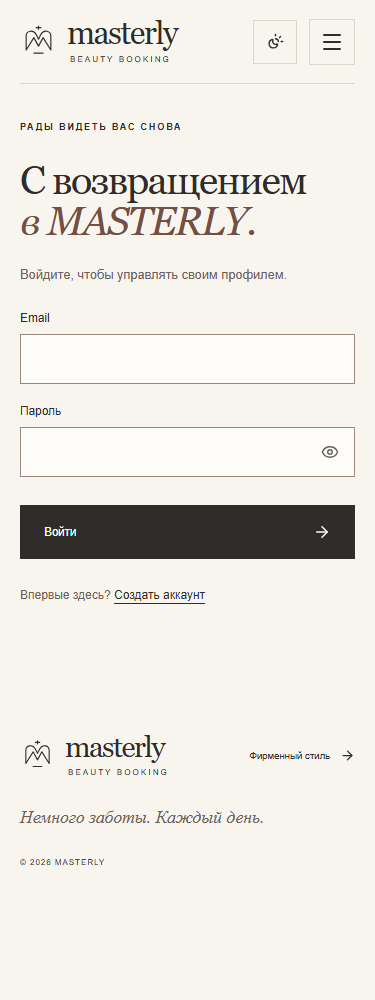
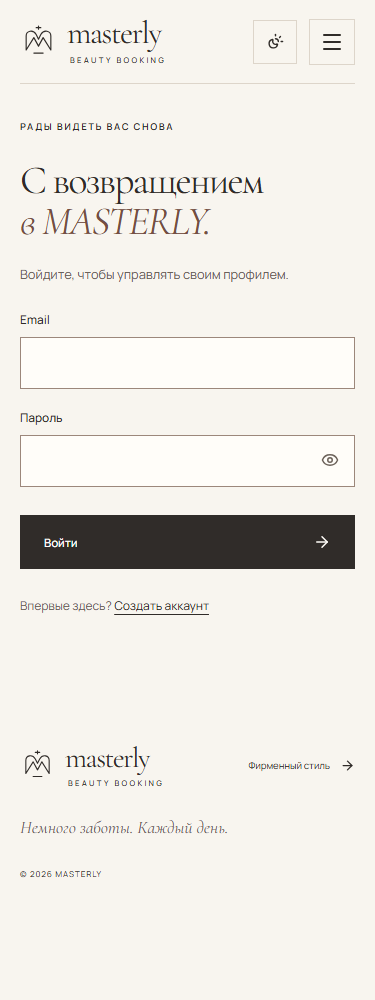
Verify bundled typography and document readiness failures

diff --git a/backend/app/api/v1/health.py b/backend/app/api/v1/health.py
@@ -6,6 +6,7 @@ from sqlalchemy.orm import Session
 
 from app.db.compatibility import SUPPORTED_REVISIONS, schema_revision
 from app.db.session import get_db
+from app.schemas.errors import ErrorResponse
 
 router = APIRouter(tags=["Operations"])
 
@@ -34,6 +35,7 @@ def health() -> HealthResponse:
     "/ready",
     response_model=ReadyResponse,
     summary="API database readiness",
+    responses={503: {"model": ErrorResponse, "description": "DB unavailable or incompatible"}},
     description="Checks DB connectivity, the supported Alembic revision and required columns. "
     "An incompatible or incomplete schema returns 503. No credentials returned.",
 )

diff --git a/README.md b/README.md
@@ -80,7 +80,7 @@ cd backend
 
 Подробные контракты и настройки: backend/AUTH.md. Нет ключа JWT и паролей по умолчанию. Создание ADMIN — только через python -m app.cli со скрытым вводом пароля. COOKIE_SECURE=false допускается только для localhost; production требует HTTPS и Secure cookie. Access хранится в памяти, refresh — HttpOnly cookie. Logout отзывает refresh, скопированный access может действовать до 15 минут.
 
-В наборе проверок: 104 backend-теста, 19 frontend-тестов и 25 основных Playwright-сценариев авторизации, каталога, записи, кабинетов, тем и доступности. Playwright запускается отдельно: из frontend npx playwright test (требуются работающие API, одноразовая тестовая БД с наполнителями scripts.seed_browser и app.db.showcase, приватный случайный BROWSER_TEST_PASSWORD и frontend на адресах из playwright.config.mjs). Подробности: frontend/BOOKING.md и frontend/ACCESSIBILITY.md.
+В наборе проверок: 104 backend-теста, 19 frontend-тестов и 26 основных Playwright-сценариев авторизации, каталога, записи, кабинетов, тем и доступности. Playwright запускается отдельно: из frontend npx playwright test (требуются работающие API, одноразовая тестовая БД с наполнителями scripts.seed_browser и app.db.showcase, приватный случайный BROWSER_TEST_PASSWORD и frontend на адресах из playwright.config.mjs). Подробности: frontend/BOOKING.md и frontend/ACCESSIBILITY.md.
 
 ## Бизнес-API
 

diff --git a/frontend/ACCESSIBILITY.md b/frontend/ACCESSIBILITY.md
@@ -51,10 +51,10 @@ keyboard focus, Escape и reduced motion. Основные бизнес-E2E до
 визуальные снимки проверяются отдельно. Полный production-аудит текущих
 локальных изменений требует отдельного развертывания.
 
-Локальная проверка 21.11.2026: 25 основных E2E прошли, в том числе новый профиль
+Локальная проверка 21.11.2026: 26 основных E2E прошли, в том числе новый профиль
 на 375/768/1440px без axe violations; 6 дополнительных сценариев прошли в
 Chromium, Firefox и WebKit. Lighthouse 13.6.0 дал Accessibility 100/100 для
-профиля на локальном Vite-сервере с мобильной эмуляцией. Это оценка конкретного
+профиля на локальной production-сборке, обслуживаемой FastAPI, с мобильной эмуляцией. Это оценка конкретного
 локального прогона, не результат production performance-аудита. Анимация появления
 секций использует смещение без уменьшения прозрачности текста, сохраняя контраст.
 
